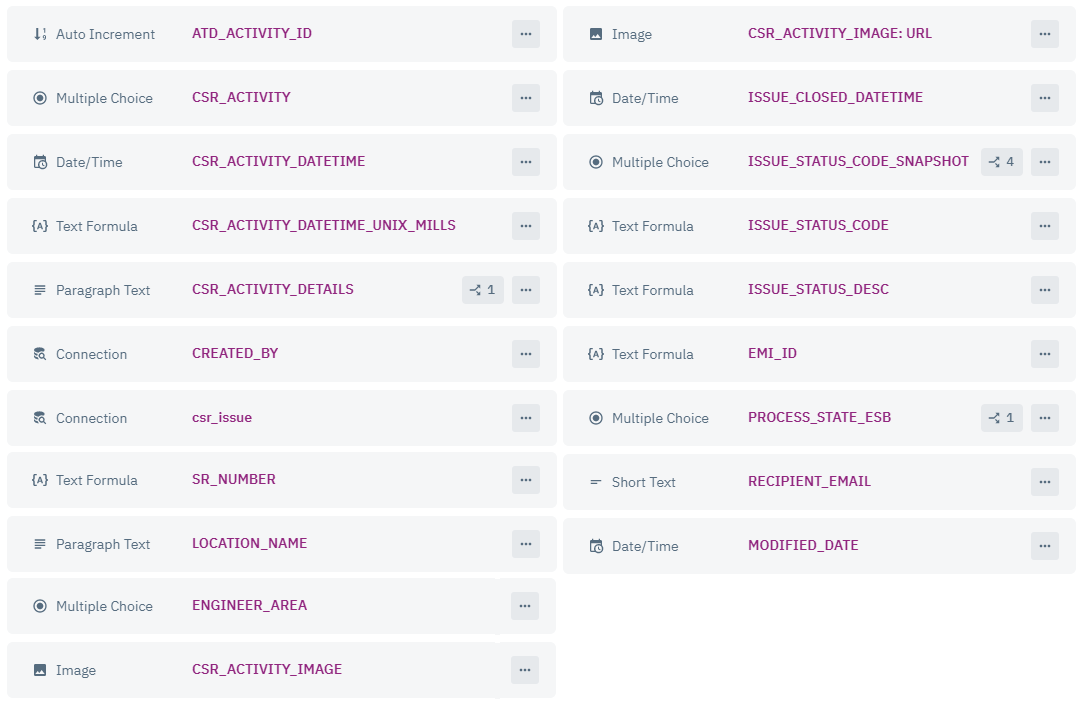
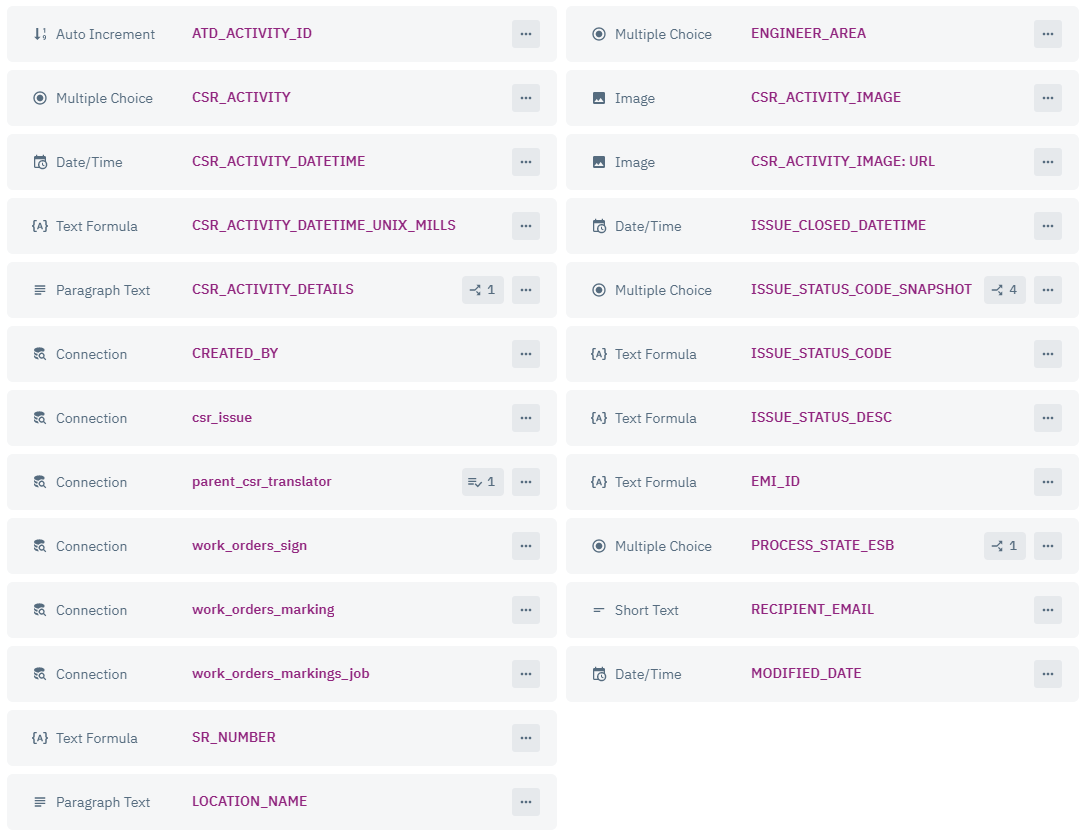
GitBook: [#618] No subject

diff --git a/gitbook/knack-integrations/csr-configuration-prep-in-knack.md b/gitbook/knack-integrations/csr-configuration-prep-in-knack.md
@@ -64,24 +64,32 @@ When importing from a table the "Map Columns" section auto defaults everything t
 
 ## csr\_activities
 
-![](<../.gitbook/assets/image (1) (1).png>)
+![](<../.gitbook/assets/image (1) (1) (1).png>)
 
 ### Multiple Choice- csr\_activities
 
 * [ ] For field `CSR_ACTIVITY` (see standard choices)
-  * Conduct Investigation
-  * Contact Citizen
-  * Dispatch Technician/Crew
-  * Repair/Replace
-  * Attach Image
-  * Send Email
-  * Close Issue (Duplicate)
-  * Close Issue (Resolved)
-  * 311 Feedback
+
+```
+Conduct Investigation
+Contact Citizen
+Dispatch Technician/Crew
+Repair/Replace
+Attach Image
+Send Email
+Close Issue (Duplicate)
+Close Issue (Resolved)
+311 Feedback
+```
+
 * [ ] For field `ENGINEER_AREA`
-  * NORTH
-  * CENTRAL
-  * SOUTH
+
+```
+NORTH
+CENTRAL 
+SOUTH
+```
+
 * [ ] For field `ISSUE_STATUS_CODE_SNAPSHOT`
 
 ```
@@ -99,8 +107,6 @@ SENT
 DO_NOT_SEND
 READY_TO_SEND
 ```
-
-
 
 ### Connections - csr\_activities
 
@@ -134,3 +140,13 @@ READY_TO_SEND
 
 * SR\_NUMBER is **blank**
   * Set **to custom value -** `DO_NOT_SEND`
+
+## csr\_issues
+
+![](../.gitbook/assets/image.png)
+
+### Multiple Choice - csr\_issues
+
+### Text Formulas - csr\_issues
+
+### Conditional Rules - csr\_issues

diff --git a/gitbook/knack-integrations/csr-configuration-prep-in-knack/creating-csr-page-components.md b/gitbook/knack-integrations/csr-configuration-prep-in-knack/creating-csr-page-components.md
@@ -24,7 +24,7 @@ This is Service Request page for Markings
 
 This is Service Request page for Signs - signs has more pre-filters on their menu
 
-![](../../.gitbook/assets/image.png)
+![](<../../.gitbook/assets/image (1).png>)
 
 ### Service Request Details page
 
